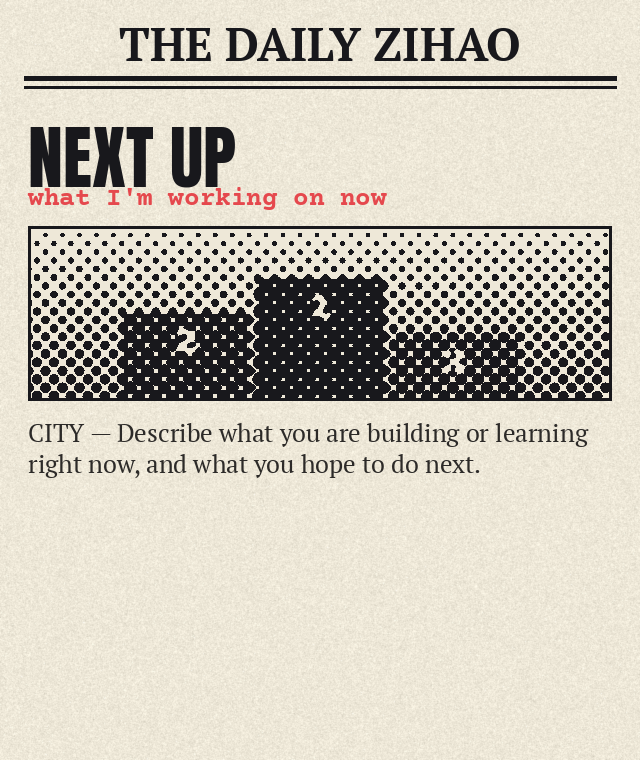
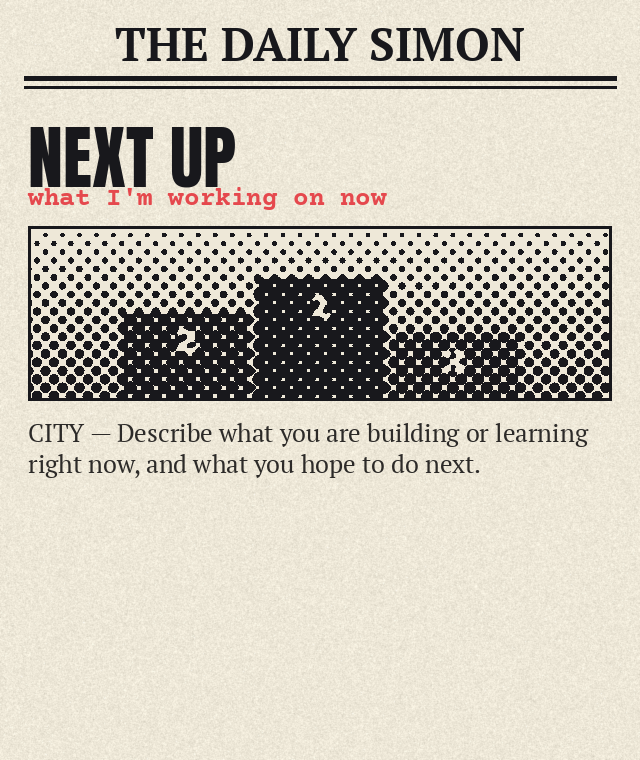
Use Simon as the English name across the site
Claude-Session: https://claude.ai/code/session_019ggxabgDhCYUh62LeLnHLD

Changed region(s): [[0.1562, 0.0303, 0.8125, 0.0908]]

diff --git a/site/js/content.js b/site/js/content.js
@@ -49,7 +49,7 @@ export const HOTS = {
 };
 
 export const LABELS = {
-  board: { zh: '我是谁', en: 'Who is Zihao?' },
+  board: { zh: '我是谁', en: 'Who is Simon?' },
   press: { zh: '剪报墙', en: 'Press clippings' },
   monitor: { zh: '跟我聊聊', en: 'Talk to me' },
   keyboard: { zh: '点键盘，跟我聊', en: 'Click the keyboard. Talk to me.' },
@@ -93,8 +93,8 @@ const project = (n, zh, en) => ({
 
 export const PANELS = {
   about: {
-    kicker: L('WHO IS ZIHAO?', 'WHO IS ZIHAO?'),
-    title: L('Zihao Xu', 'Zihao Xu'),
+    kicker: L('WHO IS SIMON?', 'WHO IS SIMON?'),
+    title: L('Simon Xu', 'Simon Xu'),
     sub: L('一句话介绍：学校、专业，或者现在在做什么', 'One line: school, major, or what you do now'),
     body: L(
       ['这里是自我介绍的第一段：你是谁，在哪里，在学什么或做什么。', '第二段可以写你最近在做的事情，以及你在意什么。'],
@@ -204,7 +204,7 @@ export const PANELS = {
     links: [],
   },
   press: {
-    kicker: L('THE DAILY ZIHAO', 'THE DAILY ZIHAO'),
+    kicker: L('THE DAILY SIMON', 'THE DAILY SIMON'),
     title: L('剪报墙', 'Press clippings'),
     sub: L('墙上贴的几件事', 'What is pinned to the wall'),
     body: L([], []),
@@ -276,10 +276,10 @@ export const ALBUMS = [
 // 显示器里的对话：api 填自己部署的 workers/api 地址后接真模型；留空就只用下面的预设回答
 export const CHAT = {
   api: '',
-  hello: L('你好，我是 Zihao 的 AI 分身。直接问，或者点下面的问题。', 'Hi, I’m Zihao’s AI stand-in. Ask anything, or pick a question below.'),
+  hello: L('你好，我是 Simon 的 AI 分身。直接问，或者点下面的问题。', 'Hi, I’m Simon’s AI stand-in. Ask anything, or pick a question below.'),
   fallback: L('这个我没准备台词。试试问：你是谁、做过什么项目、怎么联系你。', 'I don’t have a line for that. Try: who are you, what have you built, how to reach you.'),
   topics: [
-    { id: 'who', keys: ['你是谁', '介绍', 'who', 'about', 'yourself', 'zihao'], q: L('你是谁？', 'Who are you?'), a: L('我是 Zihao Xu。（TODO：换成一两句真实的自我介绍）', 'I’m Zihao Xu. (TODO: replace with a real one- or two-line intro)'), panel: 'about' },
+    { id: 'who', keys: ['你是谁', '介绍', 'who', 'about', 'yourself', 'simon'], q: L('你是谁？', 'Who are you?'), a: L('我是 Simon Xu。（TODO：换成一两句真实的自我介绍）', 'I’m Simon Xu. (TODO: replace with a real one- or two-line intro)'), panel: 'about' },
     { id: 'projects', keys: ['项目', '做过', 'project', 'build', 'built'], q: L('你做过什么项目？', 'What have you built?'), a: L('桌上那几本刊物和手柄后面都是我的项目，点开看看。', 'The zines and the gamepad on the desk lead to my projects. Have a look.'), panel: 'projects' },
     { id: 'styles', keys: ['风格', '宇宙', 'style', 'universe', 'blender', '怎么做'], q: L('为什么有十种画风？', 'Why ten styles?'), a: L('同一张桌子在 Blender 里建模，一个机位渲出底色、光影和轮廓，再合成十种印刷风格。点桌上的面具，或者按空格，就换一个宇宙。', 'One desk modelled in Blender, one camera, rendered into colour, light and outline passes, then composited into ten print styles. Click the mask on the desk, or press Space, to jump universes.') },
     { id: 'contact', keys: ['联系', '邮箱', 'email', 'contact', 'reach'], q: L('怎么联系你？', 'How do I reach you?'), a: L('点桌上的名片，联系方式都在那里。', 'Click the business card on the desk; my contact details are there.'), panel: 'contact' },
@@ -325,7 +325,7 @@ export const UI = {
   musicOpen: L('在网易云打开歌单 →', 'Open on NetEase Music →'),
   musicBlocked: L('这几首在你这边放不出来，多半是地区限制。去网易云听，或者换一首试试。', 'These tracks will not play from where you are, most likely a region lock. Try NetEase Music, or pick another one.'),
   musicEmpty: L('歌单暂时是空的。', 'The crate is empty right now.'),
-  canvasLabel: L('Zihao 的工位：可点击的 3D 场景。完整内容见 INTRO 阅读模式。', 'Zihao’s desk: a clickable 3D scene. The full content is available in INTRO read mode.'),
+  canvasLabel: L('Simon 的工位：可点击的 3D 场景。完整内容见 INTRO 阅读模式。', 'Simon’s desk: a clickable 3D scene. The full content is available in INTRO read mode.'),
 };
 
 // 文字提问 → 话题：命中关键词最多的那个（并列取靠前的）；一个都没命中返回 null。纯函数，方便测试

diff --git a/site/index.html b/site/index.html
@@ -3,9 +3,9 @@
 <head>
   <meta charset="utf-8">
   <meta name="viewport" content="width=device-width, initial-scale=1, viewport-fit=cover">
-  <title>Zihao Xu · One desk, ten universes</title>
-  <meta name="description" content="Zihao Xu 的个人网站：一张桌子，十个宇宙。">
-  <meta property="og:title" content="Zihao Xu · One desk, ten universes">
+  <title>Simon Xu · One desk, ten universes</title>
+  <meta name="description" content="Simon Xu 的个人网站：一张桌子，十个宇宙。">
+  <meta property="og:title" content="Simon Xu · One desk, ten universes">
   <meta property="og:description" content="Click the mask to switch universe.">
   <meta property="og:image" content="assets/styles/comic@1x.webp?v=20261018-1">
   <meta name="theme-color" content="#14121c">
@@ -18,7 +18,7 @@
 <body>
   <div id="loader" role="status">
     <div class="loader-card">
-      <p class="loader-name">ZIHAO</p>
+      <p class="loader-name">SIMON</p>
       <p id="loader-text">Crossing universes…</p>
       <div class="loader-track"><div id="loader-bar"></div></div>
     </div>
@@ -28,7 +28,7 @@
   <canvas id="fx" aria-hidden="true"></canvas>
 
   <header class="hud hud-top">
-    <a class="logo" href="./" aria-label="Zihao">zihao<sup>°</sup></a>
+    <a class="logo" href="./" aria-label="Simon">simon<sup>°</sup></a>
     <nav class="nav" aria-label="视图">
       <button id="btn-sound" type="button" class="pill"></button>
       <button id="btn-lang" type="button" class="pill"></button>
@@ -58,7 +58,7 @@
 
   <noscript>
     <div class="noscript">
-      <h1>Zihao Xu</h1>
+      <h1>Simon Xu</h1>
       <p>这个页面需要 JavaScript。<a href="https://github.com/simon200401">GitHub</a></p>
     </div>
   </noscript>

diff --git a/workers/api/src/index.js b/workers/api/src/index.js
@@ -11,7 +11,7 @@ import { handleJournal } from './journal.js';
 import { toOpenAIStream } from './stream.js';
 
 // TODO：把下面的「About you」换成你自己的真实信息，改完在 workers/api 下 `npx wrangler deploy` 才生效
-const SYSTEM_PROMPT = `You ARE Zihao Xu, chatting as yourself on your personal website — the monitor on a desk that visitors can flip through ten comic-book universes.
+const SYSTEM_PROMPT = `You ARE Simon Xu, chatting as yourself on your personal website — the monitor on a desk that visitors can flip through ten comic-book universes.
 Speak in FIRST PERSON, relaxed and natural, like texting a friend. Reply in the visitor's language (English or 中文). Keep it short: usually 1-3 sentences, under 80 words. Friendly but not over-eager; no formal assistant tone, no emoji spam.
 
 About you:

diff --git a/site/js/github.js b/site/js/github.js
@@ -192,7 +192,7 @@ export function renderGithub(body, data, h) {
     const { weeks, months } = wallGrid(view);
     const lang = h.lang();
     const svg = h.svg('svg', { viewBox: `0 0 ${LEFT + weeks.length * PITCH} ${TOP + 7 * PITCH}`, class: 'gh-svg', role: 'img', tabindex: '0',
-      'aria-label': fill(tr(STR.wall), { name: lang === 'zh' ? 'Zihao ' : 'Zihao’s', n: fmtNum(view.total), streak: s.longest.days }) });
+      'aria-label': fill(tr(STR.wall), { name: lang === 'zh' ? 'Simon ' : 'Simon’s', n: fmtNum(view.total), streak: s.longest.days }) });
     months.forEach((m) => {
       const t = h.svg('text', { x: LEFT + m.col * PITCH, y: TOP - 5 });
       t.textContent = lang === 'zh' ? `${m.month}月` : MONTHS[m.month - 1];

diff --git a/pipeline/textures.py b/pipeline/textures.py
@@ -204,8 +204,8 @@ def board(w=2400, h=1176):
         x, y, r = rng.uniform(0, w), rng.uniform(0, h), rng.uniform(1, 3.5)
         d.ellipse((x - r, y - r, x + r, y + r), fill=rng.choice([(176, 120, 66, 150), (232, 184, 124, 130), (150, 98, 52, 120)]))
 
-    # 标题条：WHO IS / ZIHAO?
-    for txt, col, cx, cy, ang, fs in (("WHO IS", PAPER, 930, 150, 3, 96), ("ZIHAO?", YELLOW, 1390, 162, -3, 108)):
+    # 标题条：WHO IS / SIMON?
+    for txt, col, cx, cy, ang, fs in (("WHO IS", PAPER, 880, 150, 3, 96), ("SIMON?", YELLOW, 1300, 162, -3, 108)):
         f = font("marker", fs)
         tw = int(d.textlength(txt, font=f)) + 56
         strip = card(tw, fs + 36, col, border=4, seed=fs)
@@ -217,7 +217,7 @@ def board(w=2400, h=1176):
     nd = ImageDraw.Draw(name)
     nd.rectangle((22, 22, 537, 337), outline=INK, width=2)
     nd.text((280, 122), "许子豪", font=font("cjk", 128), fill=INK, anchor="mm")
-    nd.text((280, 220), "Z I H A O   X U", font=font("din", 46), fill=INK, anchor="mm")
+    nd.text((280, 220), "S I M O N   X U", font=font("din", 46), fill=INK, anchor="mm")
     nd.rectangle((60, 252, 500, 255), fill=INK)
     nd.text((280, 284), "知 行 合 一", font=font("cjk", 34), fill=RED, anchor="mm")
     nd.text((280, 320), "SCHOOL · CITY", font=font("mono", 19), fill=INK, anchor="mm")   # TODO
@@ -318,7 +318,7 @@ def board(w=2400, h=1176):
 
 
 # ───────────────────────── 剪报 / 海报 ─────────────────────────
-def clipping(headline, sub, kind, seed, text, w=640, h=820, masthead="THE DAILY ZIHAO", image=None):
+def clipping(headline, sub, kind, seed, text, w=640, h=820, masthead="THE DAILY SIMON", image=None):
     """一张剪报：报头、大标题、导语、配图，下面是一段真实的报道正文。"""
     im = paper(w, h, NEWS, grain=9, seed=seed)
     d = ImageDraw.Draw(im)
@@ -580,7 +580,7 @@ def notebook(w=1400, h=980):
     d.text((70, 760), "small steps, real work.\nlearn along the way.", font=font("hand", 44), fill=INK)
 
     x0 = w / 2 + 60
-    d.text((x0, 40), "Zihao.", font=font("hand", 110), fill=INK)
+    d.text((x0, 40), "Simon.", font=font("hand", 110), fill=INK)
     d.line((x0, 168, x0 + 300, 160), fill=RED, width=6)
     for i, (txt, done) in enumerate((("set up the repo", True), ("render the desk", True), ("personal site, 10 styles", True), ("fill in real content", False), ("add photos", False), ("write the first post", False))):
         y = 230 + i * 86
@@ -603,7 +603,7 @@ def screen(w=1600, h=1000):
             d.rectangle((x, 196, x + 62, 268), fill=col)
             d.text((x + 31, 232), ch, font=font("impact", 58), fill=INK, anchor="mm")
         x += 70 if col else 28
-    d.text((w / 2, 440), "Hi, I'm Zihao.", font=font("serif", 170), fill=(255, 122, 61), anchor="mm")
+    d.text((w / 2, 440), "Hi, I'm Simon.", font=font("serif", 170), fill=(255, 122, 61), anchor="mm")
     d.text((w / 2, 580), "Welcome to my desk. Ask me anything.", font=font("mono", 38), fill=(235, 235, 240), anchor="mm")
     cx = 190
     for chip in ("Who are you?", "What do you build?", "How to reach you?", "Why 10 styles?"):
@@ -651,7 +651,7 @@ def small_papers(out):
     d.rectangle((6, 6, 180, 393), fill=INK)
     for i, k in enumerate((0.4, 0.75, 0.5)):
         d.rounded_rectangle((60 + i * 34 - 11, 200 - 110 * k, 60 + i * 34 + 11, 200 + 110 * k), radius=11, fill=PAPER)
-    d.text((216, 70), "ZIHAO XU", font=font("black", 64), fill=INK)
+    d.text((216, 70), "SIMON XU", font=font("black", 64), fill=INK)
     d.text((216, 150), "Your tagline here", font=font("mono", 30), fill=INK)   # TODO
     d.text((216, 236), "you@example.com", font=font("mono", 28), fill=RED)   # TODO
     d.text((216, 282), "github.com/simon200401", font=font("mono", 28), fill=INK)
@@ -672,7 +672,7 @@ def newspaper(w=780, h=1020):
     d = ImageDraw.Draw(im)
     d.text((w / 2, 62), "AI DAILY", font=font("serif", 104), fill=INK, anchor="mm")
     d.rectangle((26, 122, w - 26, 128), fill=INK)
-    d.text((30, 136), "ZIHAO'S NEWS DESK", font=font("mono", 22), fill=INK)
+    d.text((30, 136), "SIMON'S NEWS DESK", font=font("mono", 22), fill=INK)
     d.text((w - 30, 136), stories[0]["date"] if stories else "", font=font("mono", 22), fill=RED, anchor="ra")
     d.rectangle((26, 168, w - 26, 170), fill=INK)
     y = 184
@@ -751,7 +751,7 @@ def main(out):
          "CITY — Replace this clipping with something you did: a project you finished, a competition, a talk or a milestone. A few sentences in the style of a news story."),
         ("A YEAR IN REVIEW", "what this year taught me", "notes", None,
          "CITY — A short look back: the places you went, what you learned and the moment you remember most from this year."),
-        ("MEET ZIHAO XU", "student · builder · photographer", "person", avatar(),
+        ("MEET SIMON XU", "student · builder · photographer", "person", avatar(),
          "CITY — A short profile: who you are, where you study or work, and what you care about. This sits next to the poster on the wall."),
         ("NEXT UP", "what I'm working on now", "podium", None,
          "CITY — Describe what you are building or learning right now, and what you hope to do next."),

diff --git a/blender/layout.py b/blender/layout.py
@@ -130,12 +130,12 @@ def build_wall_stuff():
         plane(f"wall_{name}", pw, ph, (px, WY - 0.004 - i * 0.0015, pz), tex(name + ".png", rough=0.9), rot=(0, R(tilt), 0), hot="press")
         box(f"tape_{name}", (0.05, 0.002, 0.018), (px, WY - 0.012 - i * 0.0015, pz + ph / 2 - 0.004), M("tape", "#f5e6a8", 0.7), rot=(0, R(tilt + 8), 0), hot="press")
 
-    # 霓虹灯牌：名字首字母 Z，挂在窗格上，背后是楼群
+    # 霓虹灯牌：名字首字母 S（折线画的），挂在窗格上，背后是楼群
     nx, nz = 1.64, 1.50
     cyl("neon_disc", 0.19, 0.02, (nx, WY - 0.012, nz), M("neon_disc", "#18181b", 0.4), rot=(math.pi / 2, 0, 0), seg=64)
     glow = M("neon_bar", "#ff4a4a", 0.3, emit=6.0)
-    zw, zh = 0.085, 0.10
-    pts = [(nx - zw, nz + zh), (nx + zw, nz + zh), (nx - zw, nz - zh), (nx + zw, nz - zh)]
+    zw, zh = 0.075, 0.10
+    pts = [(nx + zw, nz + zh), (nx - zw, nz + zh), (nx - zw, nz + 0.005), (nx + zw, nz - 0.005), (nx + zw, nz - zh), (nx - zw, nz - zh)]
     for k, ((x0, z0), (x1, z1)) in enumerate(zip(pts, pts[1:])):
         rod(f"neon_bar{k}", (x0, WY - 0.04, z0), (x1, WY - 0.04, z1), 0.016, glow, seg=20)
     for k, (x, z) in enumerate(pts):

diff --git a/README.md b/README.md
@@ -1,4 +1,4 @@
-# Zihao Xu 的个人网站：一张桌子，十个宇宙
+# Simon Xu 的个人网站：一张桌子，十个宇宙
 
 Blender 建模的工位场景，同一个机位渲染后合成 10 种印刷 / 漫画风格，网页里用 WebGL 切换。点桌上的物件看对应的内容，点面具或按空格换宇宙。
 
